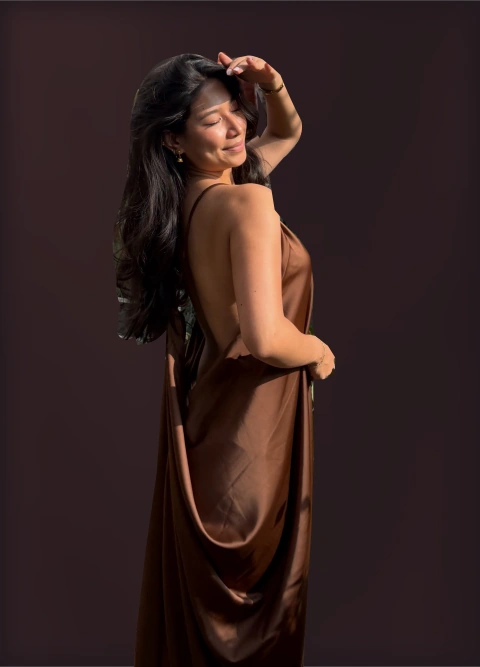
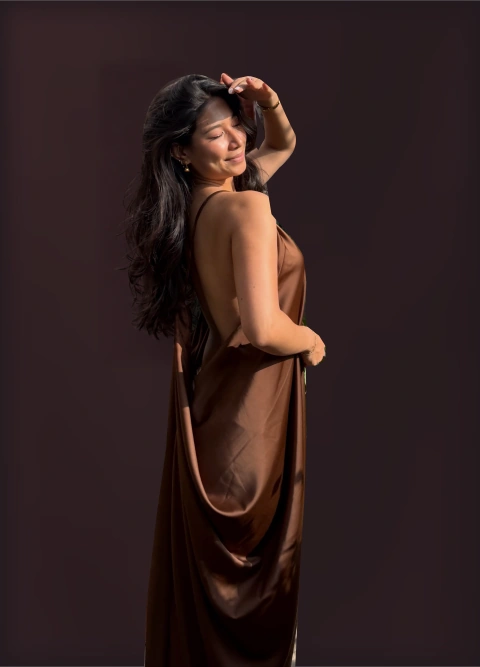
Refine hair cutout and give hero portrait more breathing room

Changed region(s): [[0.25, 0.06, 0.7188, 1.0]]

diff --git a/src/data/heroPlaceholder.js b/src/data/heroPlaceholder.js
@@ -1,1 +1,1 @@
[2 lines of base64/hex data omitted]

diff --git a/README.md b/README.md
@@ -16,4 +16,4 @@ Netlify build command: `npm run build`; publish directory: `dist`. SPA rewrites 
 
 ## Demo and imagery
 
-Prices are estimated NPR fixtures. Checkout is a local demo; it does not take payments or submit orders. The homepage uses Kripa’s original brown satin photograph, clipped and composited without regenerating her face, body, hair or outfit, over an AI-created satin backdrop. Creator and bespoke photographs retain their source credits. The original Veriation wordmark moves from the hero into the header.
+Prices are estimated NPR fixtures. Checkout is a local demo; it does not take payments or submit orders. The homepage uses Kripa’s original brown satin photograph, clipped and composited without regenerating her face, body or outfit; hair cutout edges receive a localized AI repair, over an AI-created satin backdrop. Creator and bespoke photographs retain their source credits. The original Veriation wordmark moves from the hero into the header.
